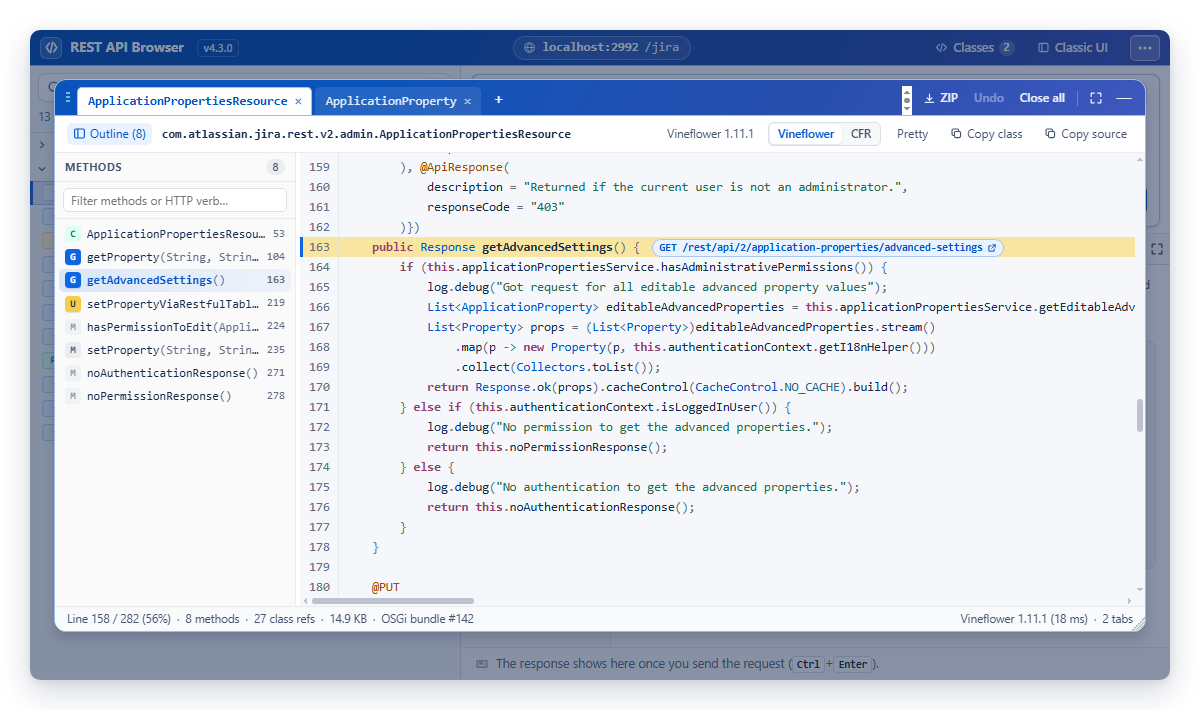
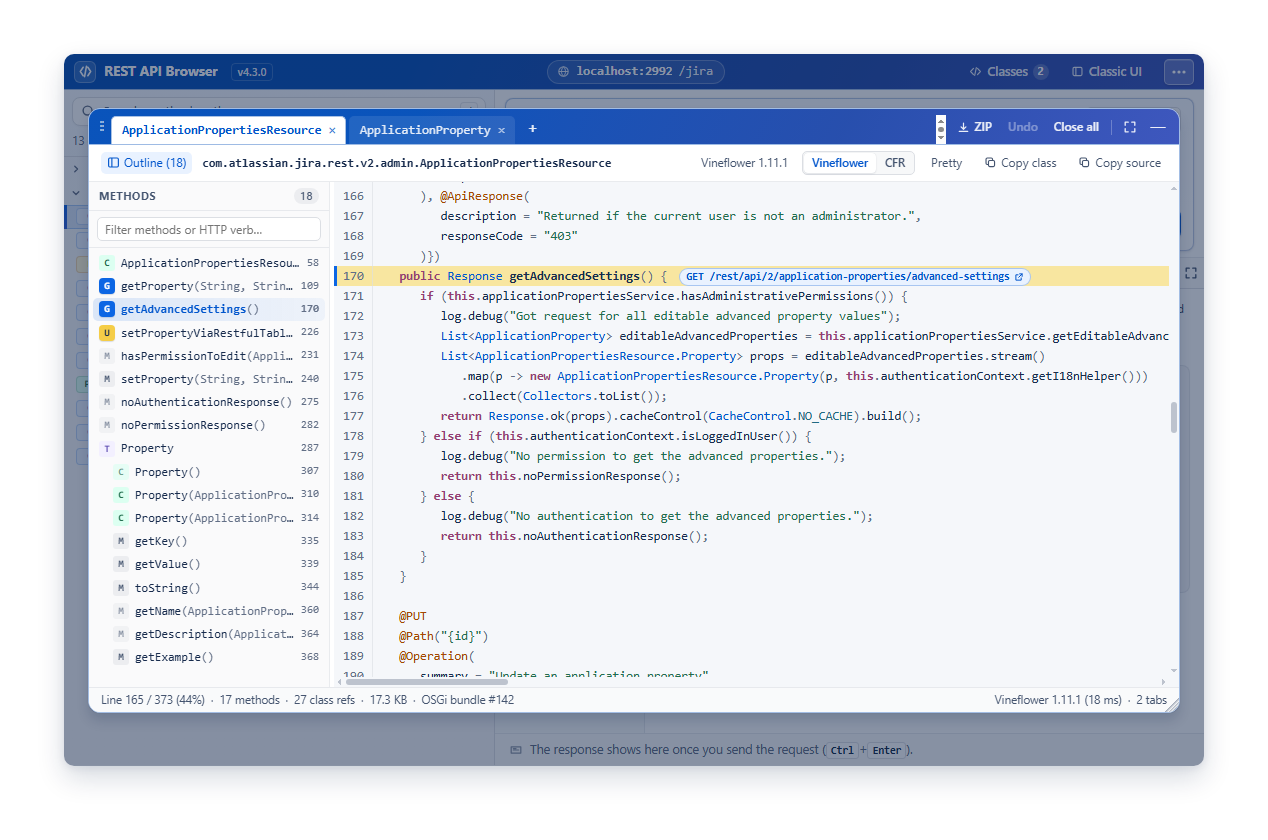
Match screenshot size, center them, and keep full drop shadow

diff --git a/README.md b/README.md
@@ -18,13 +18,15 @@ administrators and app developers who need to know what an instance really offer
 
 ## Screenshots
 
-![The new UI on Jira 11: the product's REST operations grouped by module on the left, an operation's form and its JSON response on the right](docs/images/new-ui.png)
+<p align="center">
+  <img src="docs/images/new-ui.png" width="760" alt="The new UI on Jira 11: the product's REST operations grouped by module on the left, an operation's form and its JSON response on the right" /><br />
+  <sub>The new UI (a preview, since 4.2.0) on Jira 11.3: every REST operation of the product and its apps, grouped by module, with the form and the response beside it.</sub>
+</p>
 
-<sub>The new UI (a preview, since 4.2.0) on Jira 11.3: every REST operation of the product and its apps, grouped by module, with the form and the response beside it.</sub>
-
-<p><img src="docs/images/decompiler.png" width="720" alt="Tabbed Java decompiler window in REST API Browser 4.3.0: Vineflower 1.11.1, method outline with REST verb badges, clickable class references and inline REST endpoint links" /></p>
-
-<sub>Embedded Java decompiler (since 4.3.0, sysadmin only): floating tabbed window with Vineflower 1.11.1 (default) and CFR 0.152 switching, method outline with REST verb badges, clickable class references, inline endpoint links and ZIP export.</sub>
+<p align="center">
+  <img src="docs/images/decompiler.png" width="760" alt="Tabbed Java decompiler window in REST API Browser 4.3.0: Vineflower 1.11.1, method outline with REST verb badges, clickable class references and inline REST endpoint links" /><br />
+  <sub>Embedded Java decompiler (since 4.3.0, sysadmin only): floating tabbed window with Vineflower 1.11.1 (default) and CFR 0.152 switching, method outline with REST verb badges, clickable class references, inline endpoint links and ZIP export.</sub>
+</p>
 
 ## Compatibility
 
